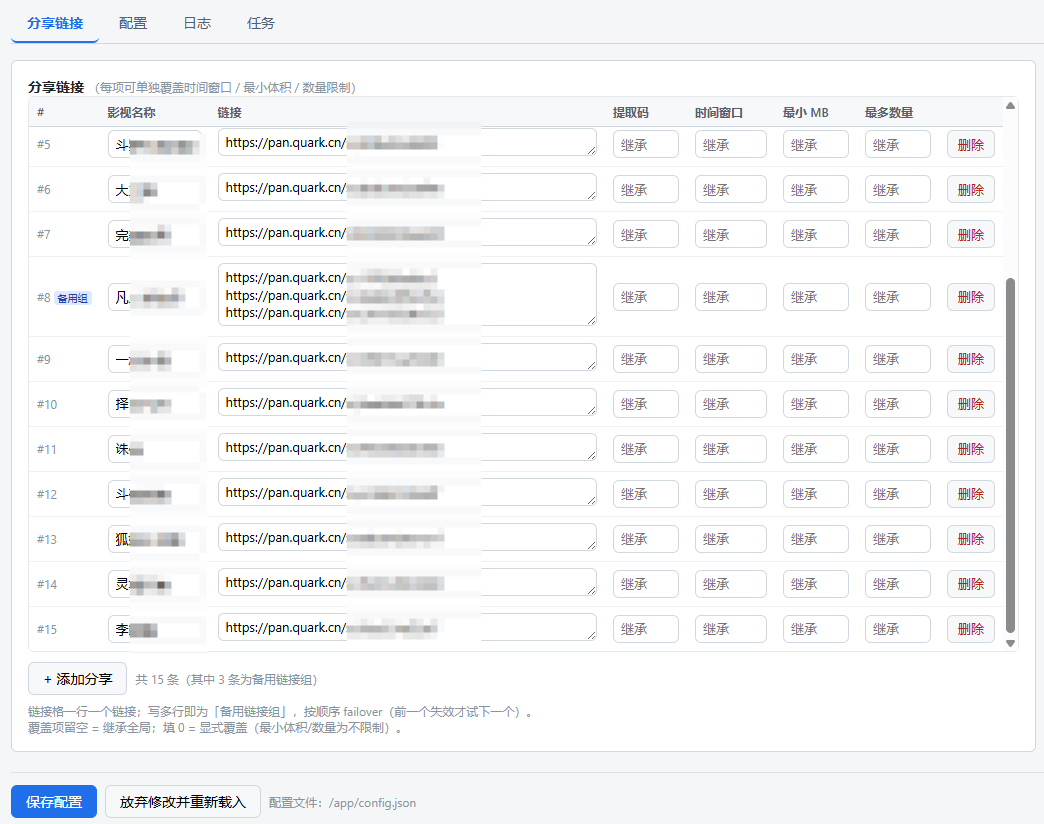
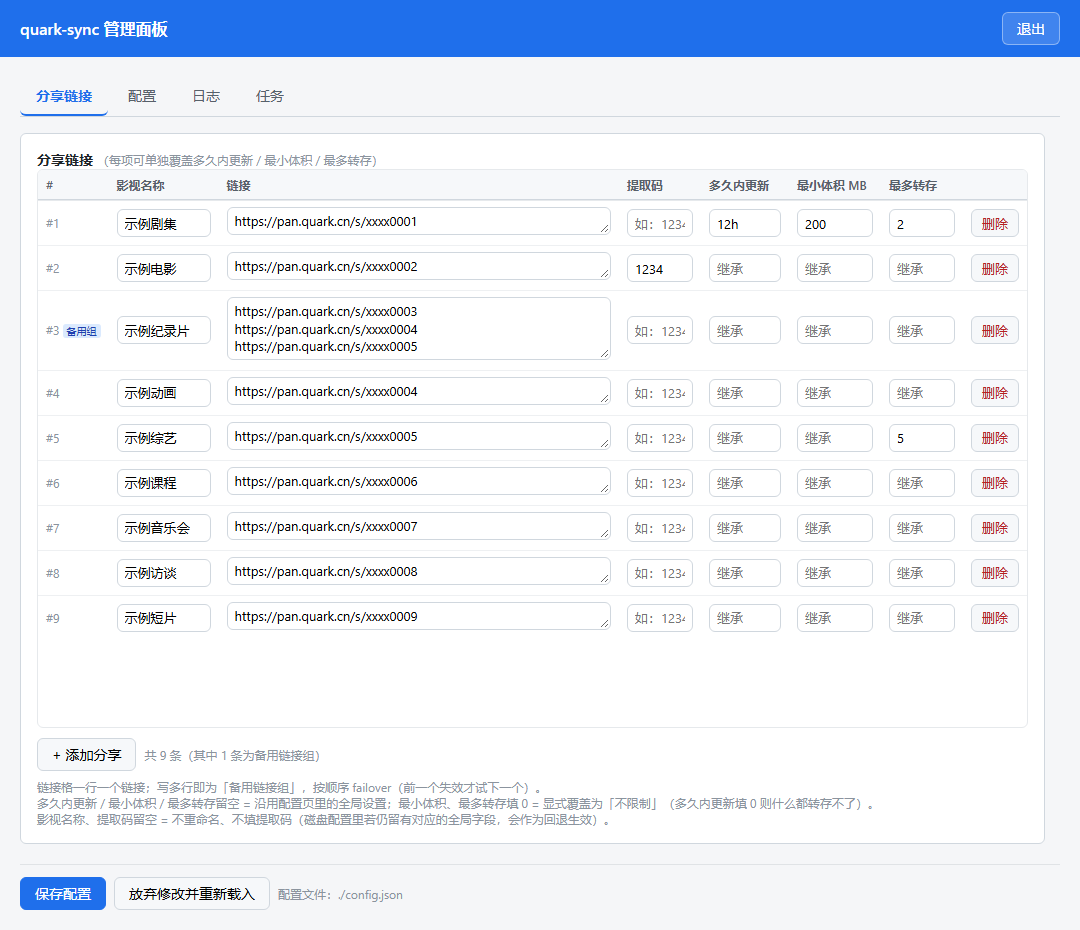
feat: 目标文件夹名支持多级路径，并按实际含义重写筛选字段的措辞
一、新功能：转存目标支持多级路径
原来 targetDirName 只会在账户根目录下按名字精确匹配（找不到就创建），因此
无法指定子目录，只能靠手填 targetDirFid。现在按 / 拆分后逐级查找，不存在的
层级会在上一级下创建：

  "targetDirName": "转存/来自：分享"

- 每级都以上一级的 fid 作为父目录，只支持从根目录往下的相对层级；
  空段（开头、结尾、重复的 /）一律忽略，"." 与 ".." 无特殊含义，按普通名字处理
- 创建后拿不到 fid 必须中断：否则下一级会以 undefined 作为父目录，
  服务端可能把它当作根目录，余下层级就被静默建到错误位置

二、界面不再维护两个全局字段（沿用 tip 的处理方式）
- 「默认提取码」与「目标文件夹 ID」从「账号与目标」移除，改为：
  提取码在「分享链接」页逐分享维护；文件夹 ID 属高级选项，手改 config.json
- 磁盘上已有的值仍照常生效（提取码是逐分享未填时的回退），保存时原样保留
- 保存时对这三个字段统一处理：字符串保留，数字按旧界面 input.value 的行为
  转成字符串（如未加引号的 "password": 1234），其余（null / 布尔 / 对象）
  丢弃 —— 否则后端可选字符串校验会拒掉整个保存，而报错指向的字段界面上已不存在
- targetDirFid 的优先级高于文件夹名，且现在不可见：磁盘上设了它时，「配置」页
  会给出只读提示并带上该值，避免用户改了文件夹名却看不出效果（静默失败）

三、筛选字段改为按实际含义命名
「时间窗口 / 最小 MB / 最多数量」是算法或量化术语，看不出约束的是什么，
改为：多久内更新 / 最小体积 MB / 最多转存（配置页为「最小文件体积 MB」
「每个分享最多转存」）。同时把「AList 路径」改为「AList 源目录」，
「下载目录」改为「本地下载目录」，让远端源与本地目标一眼可辨。

- 三个列头补 title 悬停说明；提示文案从「0 表示不过滤」改为说明具体行为
- 修正表格下方一处不准确的表述：原写「填 0 = 不限制」，但 hours 填 0 是
  「什么都转存不了」而非不限制，现已分开表述
- 提取码列的 placeholder 由「继承」改为「如：1234」（全局框已移除，无从继承）

四、标签对齐
.grid 原为 align-items: center，右侧单元格是「输入框 + 提示行」时，
标签会相对整块居中而偏低（实测偏 16px）。改为 baseline，标签文字与输入框内
文字同一条基线，提示行再长也不影响；含勾选框的行同样与首行齐平。

五、文档
README 同步上述全部改动；原来那张界面截图是改名之前拍的（列头仍是旧词），
已用当前界面 + 纯示例数据重新生成（示例剧集 / pan.quark.cn/s/xxxx0001，
不含任何真实分享），图注也挪到图正下方。

已验证：
- 多级路径 13 项单元测试：FID 优先、单级存在 / 新建、两级（子级建在父 fid 下）、
  三级、冗余斜杠、段首尾空格、空白名回落根目录、创建失败必须中断且不再继续
- 对照真实 API 语义确认 listUserFiles 与 createFolder 均把 pdir_fid 传给服务端
- 桩 DOM 功能测试：四个 tab 的提示落点、保存时三字段的保留 / 转换 / 丢弃、
[…]

diff --git a/ui.html b/ui.html
@@ -34,7 +34,10 @@
   #panel-logs .filters { flex: none; }
   .card { background: #fff; border: 1px solid #d0d7de; border-radius: 6px; padding: 16px; margin-bottom: 14px; }
   .card h2 { font-size: 14px; margin: 0 0 12px; color: #1f2328; }
-  .grid { display: grid; grid-template-columns: 180px 1fr; gap: 10px 14px; align-items: center; }
+  /* 按基线对齐：右侧单元格里常是「输入框 + 提示行」，若用 center，
+     标签会相对整个单元格（含提示行）居中而显得偏下；基线对齐让标签文字
+     与输入框内的文字同一行，提示行再长也不影响 */
+  .grid { display: grid; grid-template-columns: 180px 1fr; gap: 10px 14px; align-items: baseline; }
   .grid label { color: #57606a; }
 
   /* 可折叠的一级卡片：仅带 data-card 的卡片才有可点击的视觉暗示，
@@ -167,7 +170,7 @@
     <div class="panel active" id="panel-shares">
       <div id="shareMsg" class="msg"></div>
       <div class="card">
-        <div class="card-hd"><h2>分享链接 <span class="hint" style="font-weight:400">（每项可单独覆盖时间窗口 / 最小体积 / 数量限制）</span></h2></div>
+        <div class="card-hd"><h2>分享链接 <span class="hint" style="font-weight:400">（每项可单独覆盖多久内更新 / 最小体积 / 最多转存）</span></h2></div>
         <div class="card-bd">
           <div class="tablewrap">
             <table class="share-table">
@@ -177,9 +180,9 @@
                   <th style="width:110px">影视名称</th>
                   <th style="min-width:220px">链接</th>
                   <th style="width:82px">提取码</th>
-                  <th style="width:88px">时间窗口</th>
-                  <th style="width:82px">最小 MB</th>
-                  <th style="width:82px">最多数量</th>
+                  <th style="width:88px" title="只转存「更新时间」在最近这段时间内的文件，如 24（小时）、12h、1d">多久内更新</th>
+                  <th style="width:92px" title="小于这个体积（MB）的文件不转存，0 表示不过滤">最小体积 MB</th>
+                  <th style="width:82px" title="按更新时间从新到旧，每个分享最多转存这么多个文件，0 表示不限制">最多转存</th>
                   <th style="width:64px"></th>
                 </tr>
               </thead>
@@ -192,7 +195,8 @@
           </div>
           <div class="hint" style="margin-top:8px">
             链接格一行一个链接；写多行即为「备用链接组」，按顺序 failover（前一个失效才试下一个）。<br>
-            覆盖项留空 = 继承全局；填 0 = 显式覆盖（最小体积/数量为不限制）。
+            多久内更新 / 最小体积 / 最多转存留空 = 沿用配置页里的全局设置；最小体积、最多转存填 0 = 显式覆盖为「不限制」（多久内更新填 0 则什么都转存不了）。<br>
+            影视名称、提取码留空 = 不重命名、不填提取码（磁盘配置里若仍留有对应的全局字段，会作为回退生效）。
           </div>
         </div>
       </div>
@@ -221,13 +225,15 @@
             <h3>转存目标</h3>
             <div class="grid">
               <label>目标文件夹名</label>
-              <input type="text" id="targetDirName" placeholder="来自：分享">
-              <label>目标文件夹 ID</label>
-              <input type="text" id="targetDirFid" placeholder="优先级高于文件夹名，留空则用名称查找">
-              <!-- 全局 tip 有意不在界面暴露：前缀改由每个分享自己的 tip（「影视名称」列）维护。
-                   磁盘上若已存在 config.tip，仍会作为该分享未填时的回退生效，且保存时原样保留。 -->
-              <label>默认提取码</label>
-              <input type="text" id="password" placeholder="分享默认提取码">
+              <div>
+                <input type="text" id="targetDirName" placeholder="来自：分享">
+                <div class="hint">支持多级路径，如 <code>转存/来自：分享</code>；不存在的层级会自动创建（只从根目录往下）。</div>
+                <div class="hint" id="targetDirFidNote" style="display:none;color:#b62222"></div>
+              </div>
+              <!-- 全局 targetDirFid / tip / password 有意不在界面暴露：
+                   目标文件夹 ID 是手改配置时的高级选项（优先级高于文件夹名，可在同名文件夹中精确指定）；
+                   文件名前缀与提取码改为在「分享链接」页逐个分享维护。
+                   磁盘上若已有这些字段，仍会照常生效，且保存时原样保留、不会被清掉。 -->
             </div>
           </div>
         </div>
@@ -240,20 +246,20 @@
           <div class="subcard">
             <h3>筛选与转存</h3>
             <div class="grid">
-              <label>时间窗口</label>
+              <label>多久内更新</label>
               <div>
                 <input type="text" id="hours" placeholder="24 或 1d">
-                <div class="hint">支持单位：<code>30m</code> 分钟、<code>12h</code> 小时、<code>1d</code> 天、<code>1w</code> 周、<code>1mo</code> 月（30 天）、<code>1y</code> 年；也可直接填数字（按小时）。注意 0 会转存不了任何文件。</div>
+                <div class="hint">只转存「更新时间」在最近这段时间内的文件。支持单位：<code>30m</code> 分钟、<code>12h</code> 小时、<code>1d</code> 天、<code>1w</code> 周、<code>1mo</code> 月（30 天）、<code>1y</code> 年；也可直接填数字（按小时）。注意 0 会转存不了任何文件。</div>
               </div>
-              <label>最小文件大小 MB</label>
+              <label>最小文件体积 MB</label>
               <div>
                 <input type="number" id="minFileSizeMB" min="0">
-                <div class="hint">0 表示不过滤。</div>
+                <div class="hint">小于这个体积的文件不转存；0 表示不过滤。</div>
               </div>
-              <label>每分享最多转存</label>
+              <label>每个分享最多转存</label>
               <div>
                 <input type="number" id="maxFilesPerShare" min="0">
-                <div class="hint">0 表示不限制。</div>
+                <div class="hint">按更新时间从新到旧，最多转存这么多个文件；0 表示不限制。</div>
               </div>
               <label>轮询间隔 ms</label>
               <input type="number" id="pollInterval" min="0">
@@ -268,7 +274,7 @@
           <div class="subcard">
             <h3>下载与清理</h3>
             <div class="grid">
-              <label>下载目录</label>
+              <label>本地下载目录</label>
               <input type="text" id="downloadDir" placeholder="./downloads">
               <label>下载后删除云端</label>
               <div><input type="checkbox" id="deleteAfterDownload"> <span class="hint">下载成功后删除网盘文件</span></div>
@@ -285,8 +291,11 @@
             <div class="grid">
               <label>AList 地址</label>
               <input type="text" id="alistUrl" placeholder="http://127.0.0.1:19336">
-              <label>AList 路径</label>
-              <input type="text" id="alistPath" placeholder="/kuake/来自：分享">
+              <label>AList 源目录</label>
+              <div>
+                <input type="text" id="alistPath" placeholder="/kuake/来自：分享">
+                <div class="hint">AList 服务器上要下载的目录，其中的文件会下载到上面的本地下载目录。</div>
+              </div>
               <label>AList Token</label>
               <input type="text" id="alistToken">
               <label>绕过缓存</label>
@@ -547,7 +556,7 @@ function renderShares(list) {
       <td><input type="text" data-f="tip" value="${esc(obj.tip)}" placeholder="如：遮天"></td>
       <td><textarea rows="${urlIsArr ? 3 : 1}" data-f="url"
             placeholder="https://pan.quark.cn/s/xxxxxx&#10;（换行填写多个即为备用链接组）">${esc(urlText)}</textarea></td>
-      <td><input type="text" data-f="password" value="${esc(obj.password)}" placeholder="继承"></td>
+      <td><input type="text" data-f="password" value="${esc(obj.password)}" placeholder="如：1234"></td>
       <td><input type="text" data-f="hours" value="${esc(obj.hours)}" placeholder="继承"></td>
       <td><input type="number" min="0" data-f="minFileSizeMB" value="${esc(obj.minFileSizeMB)}" placeholder="继承"></td>
       <td><input type="number" min="0" data-f="maxFilesPerShare" value="${esc(obj.maxFilesPerShare)}" placeholder="继承"></td>
@@ -650,9 +659,20 @@ async function loadConfig() {
   $('webToken').placeholder = c.__webTokenSet ? '已配置（' + c.webToken + '），留空保持不变' : '至少 8 位';
 
   $('targetDirName').value = c.targetDirName ?? '';
-  $('targetDirFid').value = c.targetDirFid ?? '';
-  // 全局 tip 已从界面移除，这里不再回填；保存时它作为「未知字段」从 currentConfig 原样带回
-  $('password').value = c.password ?? '';
+  // targetDirFid 虽然不在界面暴露，但后端仍优先采用它（见 index.js 的 resolveTargetDir）：
+  // 磁盘上若设了它，在这里改「目标文件夹名」不会有任何效果，必须显式提示，否则是静默失败
+  const fidOnDisk = c.targetDirFid === undefined || c.targetDirFid === null ? '' : String(c.targetDirFid).trim();
+  const fidNote = $('targetDirFidNote');
+  if (fidOnDisk !== '' && fidOnDisk !== '0') {
+    fidNote.style.display = 'block';
+    fidNote.textContent = '注意：磁盘配置里设了「目标文件夹 ID」' + fidOnDisk
+      + '，它的优先级高于上面的名称，转存会以它为准；如需改用名称，请直接编辑 config.json 删掉 targetDirFid 字段。';
+  } else {
+    fidNote.style.display = 'none';
+    fidNote.textContent = '';
+  }
+  // 全局 targetDirFid / tip / password 已从界面移除，这里不再回填；
+  // 保存时它们作为「未知字段」从 currentConfig 原样带回
   $('hours').value = c.hours ?? '';
   $('minFileSizeMB').value = c.minFileSizeMB ?? '';
   $('maxFilesPerShare').value = c.maxFilesPerShare ?? '';
@@ -693,16 +713,18 @@ $('saveBtn').onclick = async () => {
     out[k] = currentConfig[k];
   }
 
-  // 全局 tip 已从界面移除：合法的字符串原样保留（作为未填该项的分享的回退），
-  // 非字符串（手写配置里的 null / 数字）直接丢弃 —— 否则后端校验会拒掉整个保存，
-  // 而报错指向的字段在界面上根本不存在，无法自查
-  if (typeof out.tip !== 'string') delete out.tip;
+  // 全局 targetDirFid / tip / password 已从界面移除：字符串原样保留（它们仍在后端生效），
+  // 数字按旧界面 input.value 的行为转成字符串，其余（手写配置里的 null / 布尔 / 对象）
+  // 直接丢弃 —— 否则后端校验会拒掉整个保存，而报错指向的字段界面上根本不存在，无法自查
+  for (const k of ['targetDirFid', 'tip', 'password']) {
+    if (typeof out[k] === 'number') out[k] = String(out[k]);
+    else if (typeof out[k] !== 'string') delete out[k];
+  }
 
   const setStr = (k, el) => { const v = $(el).value.trim(); if (v === '') delete out[k]; else out[k] = v; };
   setStr('targetDirName', 'targetDirName');
-  setStr('targetDirFid', 'targetDirFid');
-  // 不再 setStr('tip', ...)：全局 tip 已从界面移除，交给上面的未知字段保留逻辑原样带过
-  setStr('password', 'password');
+  // 不再对 tip / password / targetDirFid 调 setStr：这三个全局字段已从界面移除，
+  // 由上面的保留 / 丢弃逻辑处理，保存时原样带过
   setStr('downloadDir', 'downloadDir');
   setStr('alistUrl', 'alistUrl');
   setStr('alistPath', 'alistPath');

diff --git a/index.js b/index.js
@@ -848,16 +848,34 @@ class QuarkClient {
     if (!config.targetDirName) {
       return '0';
     }
-    console.log(`   查找目标文件夹: "${config.targetDirName}"...`);
-    let fid = await this.findFolderByName(config.targetDirName);
-    if (fid) {
-      console.log(`   ✓ 已存在，fid: ${fid}\n`);
-      return fid;
+    // 目标文件夹名支持多级路径（如 "转存/来自：分享"）：按 / 拆分后逐级查找，不存在则创建。
+    // 每级都以上一级的 fid 作为父目录，因此只支持「从根目录往下」的相对层级；
+    // 空段（开头、结尾或重复的 /）一律忽略，"." 与 ".." 没有特殊含义，按普通名字处理。
+    const segments = String(config.targetDirName).split('/').map(s => s.trim()).filter(Boolean);
+    if (segments.length === 0) {
+      return '0';
     }
-    console.log(`   文件夹不存在，正在创建...`);
-    fid = await this.createFolder(config.targetDirName);
-    console.log(`   ✓ 已创建，fid: ${fid}\n`);
-    return fid;
+
+    console.log(`   查找目标文件夹: "${config.targetDirName}"...`);
+    let pdirFid = '0';
+    for (const name of segments) {
+      let fid = await this.findFolderByName(name, pdirFid);
+      if (fid) {
+        console.log(`   ✓ ${name} 已存在，fid: ${fid}`);
+      } else {
+        console.log(`   ${name} 不存在，正在创建...`);
+        fid = await this.createFolder(name, pdirFid);
+        // 拿不到 fid 必须中断：否则下一级会以 undefined 作为父目录，
+        // 服务端可能把它当作根目录，于是余下的层级被静默建到错误位置
+        if (!fid) {
+          throw new Error(`创建目标文件夹失败: ${name}（接口未返回 fid）`);
+        }
+        console.log(`   ✓ ${name} 已创建，fid: ${fid}`);
+      }
+      pdirFid = fid;
+    }
+    console.log('');
+    return pdirFid;
   }
 
   async getDownloadUrls(fids) {

diff --git a/README.md b/README.md
@@ -4,13 +4,15 @@
 
 ![网页管理界面 · 分享链接页](image.png)
 
+*「分享链接」页（默认页；图中为示例数据）：一行一个分享，链接格写多行即为「备用链接组」（图中第 3 行标有「备用组」），每项可单独设置影视名称并覆盖多久内更新 / 最小体积 / 最多转存；底部保存栏在任何页面都可用。*
+
 ## 功能
 
 - **自动转存** — 监控多个夸克网盘分享链接，将最近更新的文件自动转存到自己的网盘
 - **网页管理界面** — 浏览器里维护配置、查看日志、手动触发任务，改完即时生效无需重启
-- **过滤去重** — 按更新时间窗口过滤，按"文件名+大小"自动去重，避免重复转存
+- **过滤去重** — 按更新时间过滤，按"文件名+大小"自动去重，避免重复转存
 - **小文件过滤** — 支持按文件大小下限过滤（`minFileSizeMB`），小于指定 MB 的文件不转存，可按分享链接单独配置
-- **数量限制** — 支持每分享链接最多转存 N 条最新文件（`maxFilesPerShare`），可按分享链接单独配置
+- **最多转存** — 支持每个分享链接最多转存 N 条最新文件（`maxFilesPerShare`），可按分享链接单独配置
 - **文件重命名** — 支持为转存文件添加前缀（如 `遮天-`、`斗破苍穹-`），便于分类管理
 - **定时调度** — 支持 cron 表达式定时执行同步和下载任务
 - **夸克下载** — 将夸克网盘指定文件夹的文件下载到本地
@@ -40,19 +42,19 @@ cp config.example.json config.json
 | `cookie` | string | 是 | 夸克网盘登录后的完整 Cookie 字符串 |
 | `shareUrls` | array | 是 | 分享链接列表，每项包含 `url`（链接，可为字符串或数组作为备用链接，按序 failover）、`password`（提取码，可选）、`tip`（文件名前缀，可选），以及可选的 per-share 覆盖项 `hours`、`minFileSizeMB`、`maxFilesPerShare`（均优先于全局同名配置） |
 | `shareUrl` | string | 否 | 单个分享链接（与 `shareUrls` 二选一） |
-| `password` | string | 否 | 默认提取码 |
+| `password` | string | 否 | 默认提取码。网页界面**不再暴露**这个全局字段（提取码在「分享链接」页逐分享维护）；磁盘上已有的值仍会作为该分享未填时的回退生效，保存时原样保留 |
 | `tip` | string | 否 | 默认文件名前缀。网页界面**不再暴露**这个全局字段（前缀改为在「分享链接」页逐个分享填写）；磁盘上已有的值仍会作为该分享未填时的回退生效，且保存配置时会原样保留 |
-| `hours` | int/string | 否 | 时间窗口，默认 48 小时。支持单位写法：`30m` 分钟、`12h` 小时、`1d` 天、`1w` 周、`1mo` 月（30 天）、`1y` 年（365 天），也支持小数（`1.5d`）与纯数字（按小时）。可在 `shareUrls` 内单项覆盖 |
-| `days` | int | 否 | 时间窗口（天），等价于 `hours = days * 24`；仅当未设置 `hours` 时生效（历史字段） |
-| `minFileSizeMB` | int | 否 | 最小文件大小过滤（MB），小于此值的文件不转存，默认 0 不过滤。可在 `shareUrls` 内单项覆盖 |
-| `maxFilesPerShare` | int | 否 | 每分享最多转存文件数，按更新时间倒序取最新 N 条，默认 0 不限制。可在 `shareUrls` 内单项覆盖 |
-| `targetDirName` | string | 否 | 转存目标文件夹名称，默认 `来自：分享` |
-| `targetDirFid` | string | 否 | 转存目标文件夹 ID（优先级高于 targetDirName） |
+| `hours` | int/string | 否 | 只转存最近这段时间内更新过的文件（网页界面上叫「多久内更新」），默认 48 小时。支持单位写法：`30m` 分钟、`12h` 小时、`1d` 天、`1w` 周、`1mo` 月（30 天）、`1y` 年（365 天），也支持小数（`1.5d`）与纯数字（按小时）。可在 `shareUrls` 内单项覆盖 |
+| `days` | int | 否 | 「多久内更新」的天数写法（历史字段），等价于 `hours = days * 24`；仅当未设置 `hours` 时生效 |
+| `minFileSizeMB` | int | 否 | 最小文件体积过滤（MB，网页界面上叫「最小体积」），小于此值的文件不转存，默认 0 不过滤。可在 `shareUrls` 内单项覆盖 |
+| `maxFilesPerShare` | int | 否 | 每个分享最多转存文件数（网页界面上叫「最多转存」），按更新时间倒序取最新 N 条，默认 0 不限制。可在 `shareUrls` 内单项覆盖 |
+| `targetDirName` | string | 否 | 转存目标文件夹名称，默认 `来自：分享`。支持多级路径（如 `转存/来自：分享`）：按 `/` 拆分后逐级查找，不存在的层级会在上一级下自动创建。只支持从根目录往下的相对层级，`.` 与 `..` 无特殊含义，空段（开头 / 结尾 / 重复的 `/`）会被忽略 |
+| `targetDirFid` | string | 否 | 转存目标文件夹 ID，优先级高于 `targetDirName`。网页界面**不再暴露**该字段（属高级选项，需直接编辑 `config.json`）；磁盘上已有的值仍会照常生效，保存配置时原样保留。因为它的优先级更高，只要磁盘上设了它，「配置」页就会给出提示，避免改了文件夹名却看不出效果 |
 | `downloadDir` | string | 否 | 本地下载目录路径 |
 | `deleteAfterDownload` | bool | 否 | 下载后是否删除云盘文件 |
 | `cleanupAfterDays` | int | 否 | 定时任务触发时，自动删除 N 天前同步的文件（云端 + 本地下载），设为 0 禁用，默认 14 |
 | `alistUrl` | string | 否 | AList 服务器地址 |
-| `alistPath` | string | 否 | AList 下载路径 |
+| `alistPath` | string | 否 | 从 AList 下载的**源目录**（AList 服务器上的路径，如 `/kuake/来自：分享`），其中的文件会下载到本地的 `downloadDir` |
 | `alistRefresh` | bool | 否 | AList 列出文件时是否绕过缓存（需管理员权限），默认 false |
 | `alistToken` | string | 否 | AList 认证 Token |
 | `syncCron` | string/array | 否 | 同步任务的 cron 表达式，支持数组 |
@@ -105,9 +107,9 @@ cp config.example.json config.json
 
 上例中第三个分享显式写 `"maxFilesPerShare": 0`，表示该链接**不受全局 `maxFilesPerShare: 3` 限制**（`0` 会覆盖全局值）；若想让某链接只做「不限制」覆盖，写法即如此。省略该字段则继承全局值。
 
-> `hours`、`minFileSizeMB`、`maxFilesPerShare` 三者统一使用 `??`（nullish）合并，因此写 `0` 均为**显式覆盖**而非「未配置」。注意 `"hours": 0` 会把时间窗口设为 0 小时（即只转存"此刻及之后更新"的文件，实际等于不转存任何文件），通常不是你想要的结果；若只想沿用全局窗口，请直接省略该字段。
+> `hours`、`minFileSizeMB`、`maxFilesPerShare` 三者统一使用 `??`（nullish）合并，因此写 `0` 均为**显式覆盖**而非「未配置」。注意 `"hours": 0` 会把「多久内更新」设为 0 小时（即只转存"此刻及之后更新"的文件，实际等于不转存任何文件），通常不是你想要的结果；若只想沿用全局设置，请直接省略该字段。
 
-### 时间窗口的单位写法
+### 「多久内更新」的单位写法
 
 `hours` 除纯数字（按小时）外，还支持带单位的写法，便于表达较长的窗口：
 
@@ -269,12 +271,10 @@ node index.js web
 
 然后浏览器访问 `http://<主机IP>:3000`，输入 Token 登录。功能包括：
 
-*「分享链接」页（默认页，图为实际界面，片名与链接已打码）：一行一个分享，链接格写多行即为「备用链接组」（图中第 8 行标有「备用组」），每项可单独设置影视名称并覆盖时间窗口 / 最小体积 / 数量限制；底部保存栏在任何页面都可用。*
-
 | 页面 | 能力 |
 | --- | --- |
-| **分享链接**（默认页） | 表格化维护 `shareUrls`：一行一个分享，链接格写多行即为「备用链接组」（按序 failover），每项可单独设置文件名前缀（「影视名称」列）并覆盖时间窗口 / 最小体积 / 数量限制。底部常驻保存栏在任何页面都可用 |
-| **配置** | 表单化编辑其余配置项，按「账号与目标 / 同步与下载 / 服务与调度」三个可折叠分组组织；保存后**定时任务自动重载，无需重启**。全局 `tip` 有意不在界面出现（前缀逐分享维护），若磁盘上已有该字段则保存时原样带过、不会被清掉 |
+| **分享链接**（默认页） | 表格化维护 `shareUrls`：一行一个分享，链接格写多行即为「备用链接组」（按序 failover），每项可单独设置影视名称（文件名前缀）与提取码，并覆盖多久内更新 / 最小体积 / 最多转存。底部常驻保存栏在任何页面都可用 |
+| **配置** | 表单化编辑其余配置项，按「账号与目标 / 同步与下载 / 服务与调度」三个可折叠分组组织；保存后**定时任务自动重载，无需重启**。全局 `tip`、`password`、`targetDirFid` 有意不在界面出现（前缀与提取码逐分享维护，文件夹 ID 属高级选项）；磁盘上已有这些字段则保存时原样带过、不会被清掉 |
 | **日志** | 按级别（INFO/ERROR）、关键字过滤，可调行数（默认 500，上限 5000）与自动刷新；只读取文件尾部，日志很大也不卡 |
 | **任务** | 查看每个 cron 任务的状态与**下次运行时间**，并可立即手动执行同步 / AList 下载 |
 
@@ -313,7 +313,7 @@ npm run docker:build:local    # 仅本地构建（单平台、不推送），用
 ### 同步模式
 1. 加载 `config.json` 并验证 Cookie 有效性
 2. 遍历 `shareUrls` 中的每个分享链接，获取目录树（失效链接自动跳过）
-3. 筛选出 `hours` 时间窗口内更新的文件（可每个链接单独配置）
+3. 筛选出多久内更新（`hours`）范围内更新过的文件（可每个链接单独配置）
 4. 按 `minFileSizeMB` 过滤掉过小的文件（可每个链接单独配置）
 5. 按 `maxFilesPerShare` 限制数量，只保留更新时间最新的 N 条（可每个链接单独配置）
 6. 与目标文件夹已有文件比对去重（按文件名 + 文件大小）
